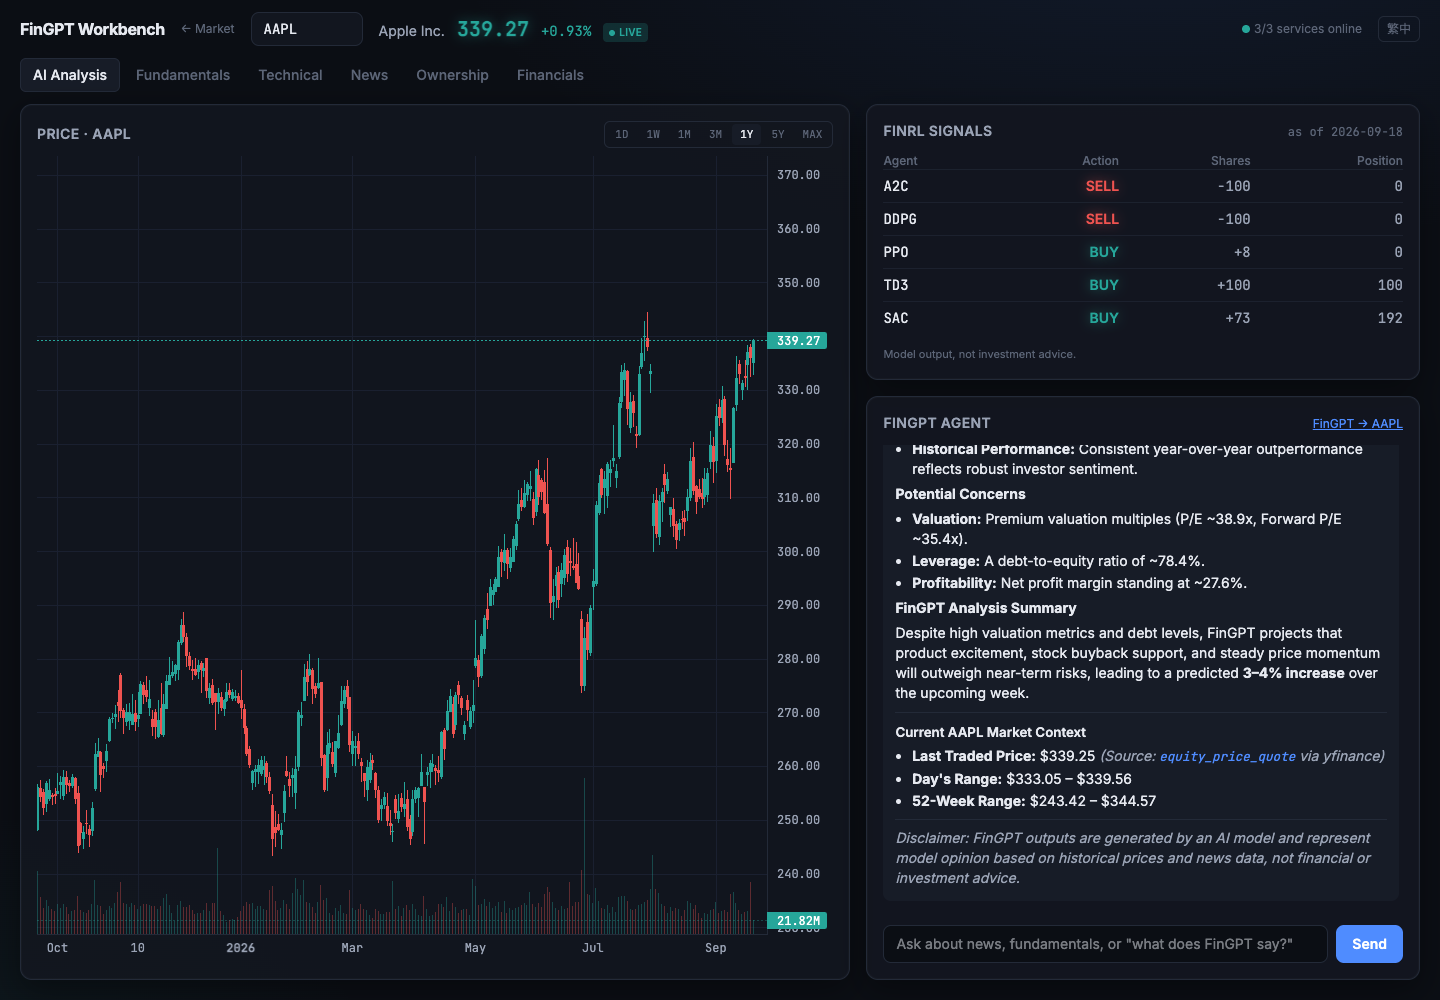
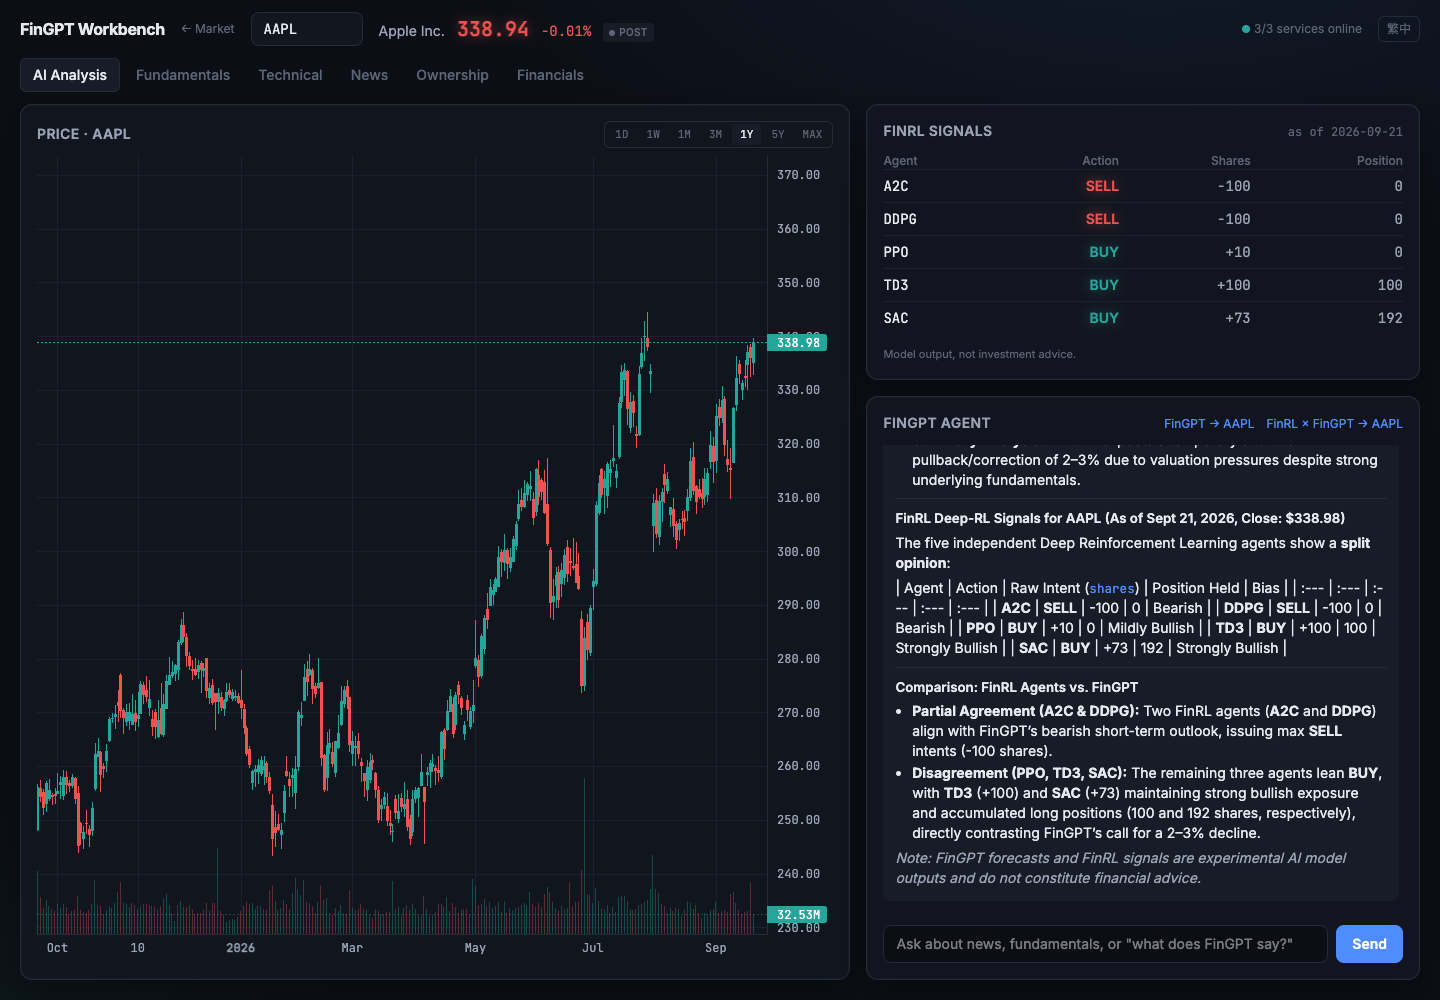
Chat: 'FinRL × FinGPT' quick button; render GFM tables in agent answers
The comparison answer lists the five agents as a markdown table, which
react-markdown renders as raw pipes without remark-gfm.

diff --git a/ui/src/components/AgentChat.tsx b/ui/src/components/AgentChat.tsx
@@ -1,5 +1,6 @@
 import { useEffect, useRef, useState } from 'react'
 import Markdown from 'react-markdown'
+import remarkGfm from 'remark-gfm'
 import { chat, type ChatEvent } from '../api'
 import type { Strings } from '../i18n'
 
@@ -38,8 +39,12 @@ export default function AgentChat({ ticker, s }: { ticker: string; s: Strings })
     <div className="panel flex h-[520px] shrink-0 flex-col p-4 lg:h-auto lg:min-h-0 lg:flex-1 lg:shrink">
       <div className="mb-3 flex items-baseline justify-between">
         <h2 className="text-sm font-semibold tracking-wide text-ink-2 uppercase">{s.chat}</h2>
-        <button className="text-xs text-accent hover:underline" disabled={busy}
-          onClick={() => send(`What does FinGPT say about ${ticker} this week?`)}>FinGPT → {ticker}</button>
+        <div className="flex gap-3">
+          <button className="text-xs text-accent hover:underline" disabled={busy}
+            onClick={() => send(`What does FinGPT say about ${ticker} this week?`)}>FinGPT → {ticker}</button>
+          <button className="text-xs text-accent hover:underline" disabled={busy}
+            onClick={() => send(`Compare ${ticker}: do the five FinRL agents' signals agree with FinGPT's outlook for this week?`)}>FinRL × FinGPT → {ticker}</button>
+        </div>
       </div>
       <div className="min-h-0 flex-1 space-y-3 overflow-y-auto pr-1 text-sm">
         {msgs.length === 0 && <p className="text-ink-3">{s.chatHint}</p>}
@@ -53,7 +58,7 @@ export default function AgentChat({ ticker, s }: { ticker: string; s: Strings })
             {m.pending && !m.text && <span className="animate-pulse text-ink-3">{s.thinking}</span>}
             {m.text && (
               <div className={`inline-block max-w-full rounded-lg px-3 py-2 text-left ${m.role === 'user' ? 'whitespace-pre-wrap bg-accent/15 text-ink' : 'md bg-panel-2 text-ink'}`}>
-                {m.role === 'user' ? m.text : <Markdown>{m.text}</Markdown>}
+                {m.role === 'user' ? m.text : <Markdown remarkPlugins={[remarkGfm]}>{m.text}</Markdown>}
               </div>
             )}
           </div>

diff --git a/ui/src/index.css b/ui/src/index.css
@@ -41,3 +41,4 @@ body {
 .md p { margin: .35em 0; } .md ul, .md ol { margin: .35em 0 .35em 1.2em; list-style: disc; } .md ol { list-style: decimal; }
 .md li { margin: .15em 0; } .md strong { color: var(--color-ink); } .md code { font-family: var(--font-mono); font-size: .9em; color: var(--color-accent); }
 .md hr { border-color: var(--color-line); margin: .6em 0; } .md em { color: var(--color-ink-2); }
+.md table { margin: .5em 0; border-collapse: collapse; font-size: .92em; } .md th, .md td { padding: .2em .6em; border: 1px solid var(--color-line); text-align: left; } .md th { color: var(--color-ink); font-weight: 600; background: var(--color-bg); }

diff --git a/README.md b/README.md
@@ -13,7 +13,7 @@ Built as a pre-MSc FinTech portfolio project.
 
 ![Market overview](docs/market-overview.png)
 
-![AAPL — chart, FinRL signals and a FinGPT answer on one screen](docs/stock-ai.png)
+![AAPL — chart, FinRL signals, and the agent comparing FinRL's five agents with FinGPT's outlook](docs/stock-ai.png)
 
 ## What it shows
 
